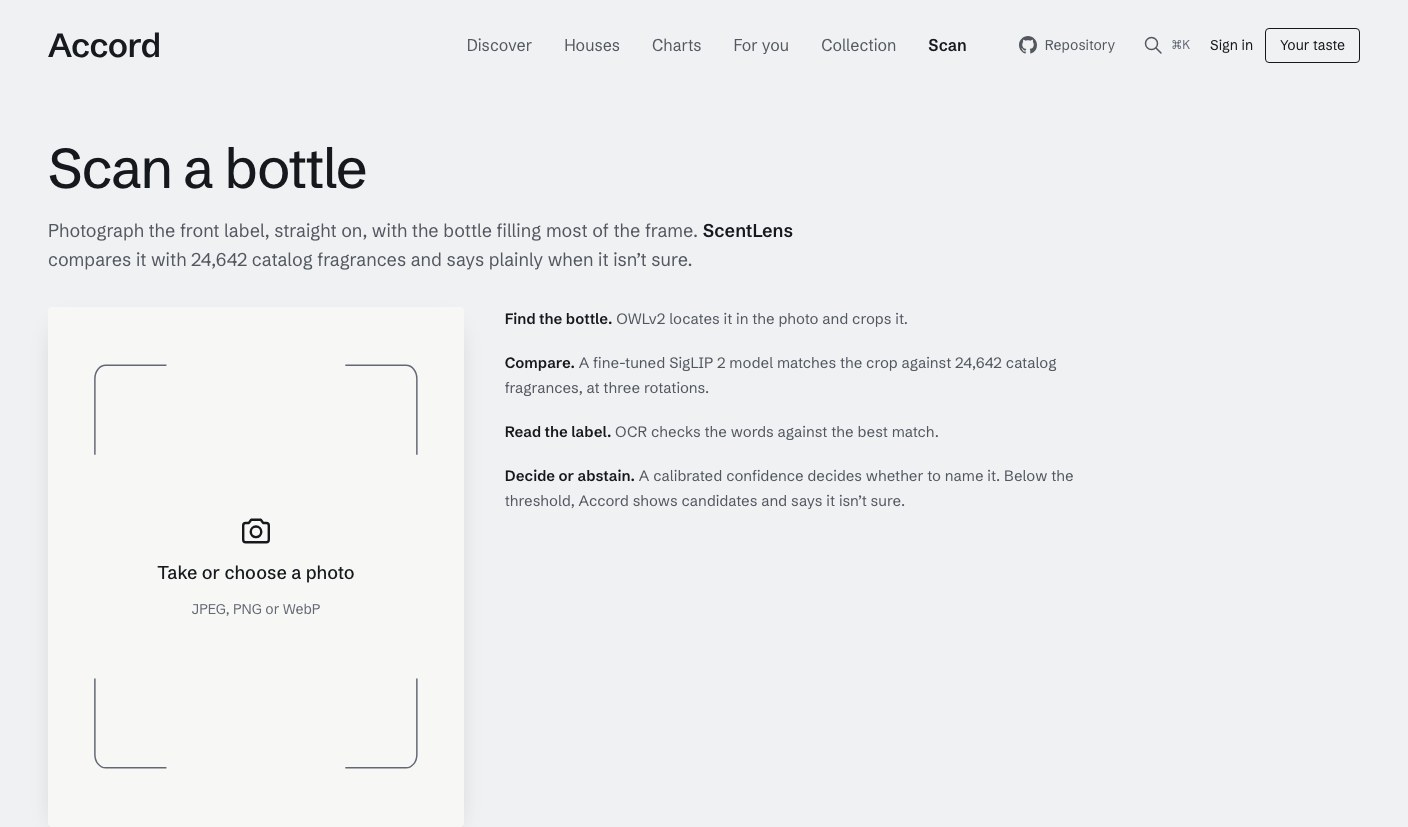
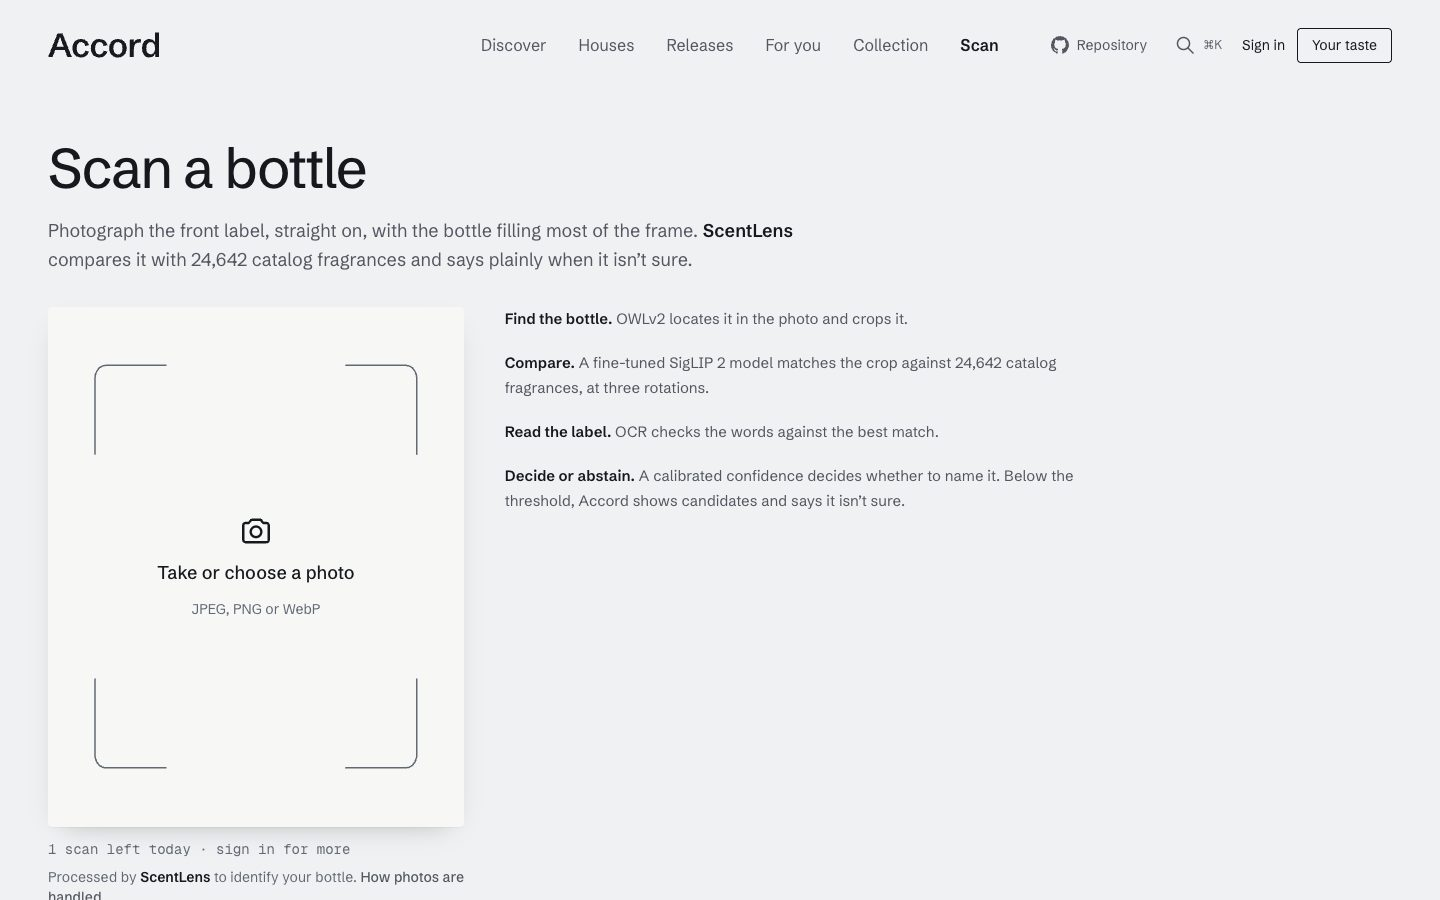
docs: README

diff --git a/README.md b/README.md
@@ -1,143 +1,146 @@
-<p align="center"><img src="src/app/apple-icon.png" width="88" height="88" alt="Accord's app icon, a paper smelling strip"></p>
+<p align="center"><img src="src/app/icon.svg" width="72" height="72" alt="Accord mark: a smelling strip"></p>
 
 # Accord
 
-**A fragrance discovery app that explains itself.** Search 24,651 fragrances, identify a bottle from a photo, and get recommendations that say exactly which notes and favourites they come from.
+**Find a fragrance, identify a bottle from a photo, and get picks that name the notes and favourites behind them.** Search 24,661 fragrances with a clear reason attached to every suggestion.
 
-**[Try it → accord.bhanusadhu.com](https://accord.bhanusadhu.com)** · works as a guest, no sign-up needed.
+**[Try it → accord.bhanusadhu.com](https://accord.bhanusadhu.com)** · free, no sign-up needed to browse, search and get recommendations
 
-![Demo: the homepage fans out paper smelling strips, quick find searches "santal 33" and opens Le Labo Santal 33, which is marked Owned and rated 5 stars; For you then lists fragrances ranked top 1% for this taste, each explained as close to Santal 33 and sharing its violet, leather and iris notes](docs/screenshots/demo.gif)
+![Accord in use: quick find opens with the keyboard, Santal 33 is found by typing, its page is marked as owned, and a ranked "For you" list follows, each pick showing a relative percentile match](docs/screenshots/demo.gif)
+
+![The Accord home page: six smelling strips fanned across a silver bench, each stained with the colour of its accord family, with a search box and a scan button](docs/screenshots/home.jpg)
 
 ## The problem
 
-People who love fragrance spend hours researching what to try next, but the big reference sites are cluttered forums, and their recommendations are either popularity lists or a black box. In a store or at a friend's place, the first question is usually "what is this?", and the answer means squinting at a label or asking around.
+People who collect fragrance already know a few notes and a few favourites, then lose hours across review sites and forums trying to answer three questions: what is this bottle, what would I like, and what smells like the one I love. Most tools answer with a popularity chart and no reasoning, and a bottle in your hand has no search box at all.
 
-The goal: **a visitor finds a fragrance they want to try, and understands why it was suggested.**
+Accord aims for one outcome: **a visitor finds a fragrance they want to try and understands why it was suggested.**
 
 ## How it works
 
-1. **Find.** Quick find (⌘K) searches names, houses and aliases and tolerates typos; Discover filters by notes to include or avoid.
-2. **Identify.** Photograph a bottle and [ScentLens](https://scentlens.bhanusadhu.com), a separate recognition model, names it from the catalog, or says it isn't sure.
-3. **Understand.** Each fragrance page shows its accord family, notes, an estimated accord profile, sourced facts (or "Not listed"), and similar fragrances.
-4. **Collect.** Mark bottles as Owned, Tried or Wishlist and rate them. It works on the device as a guest and merges into an account on sign-in.
-5. **Get picks.** For you ranks the whole catalog for your taste and explains every pick with the notes and favourites it shares.
+1. **Find.** Quick find (`⌘K`) and Discover search by name, alias, house, accord family and included or excluded notes, tolerant of typos.
+2. **Learn.** Each fragrance page shows sourced facts, an accord profile estimated from its listed notes, pictured notes, and top, heart and base stages only where a source assigns them.
+3. **Collect.** Mark a bottle Owned, Tried or Wishlist, rate it, and set liked and avoided notes. Guests keep this in the browser and it merges into an account on sign-in.
+4. **Get picks.** "For you" ranks the catalog and says why: the notes you like that a pick contains, and the favourite it resembles. The match is a percentile, never a probability.
+5. **Scan.** Photograph a bottle. [ScentLens](https://github.com/bhnsadhu/scent-lens) names it or says it is not sure, and an unsure result shows ghost strips instead of an answer.
 
-<p align="center"><img src="docs/screenshots/scan.jpg" width="80%" alt="The scan screen explains the four steps: find the bottle, compare it with 24,642 catalog fragrances, read the label, then name it or say it is not sure"></p>
+![The Discover page: a search for "santal" returns 172 fragrances as paper strips, with accord families and counts on the left and a preview of the selected fragrance on the right](docs/screenshots/discover.jpg)
 
 ## Product decisions
 
 | Decision | Trade-off |
 | --- | --- |
-| **Content-based picks, no collaborative filtering** | It can't learn "people who liked X also liked Y". There is no real interaction data to learn from, and faking it would fake the personalisation. |
-| **Match is a percentile, not a promise** | "Top 1%" sounds less exciting than "98% match". It is honest: the fragrance outscored 99% of the catalog for this taste, which says nothing certain about whether you'll love it. |
-| **The scanner may say "Not sure"** | Fewer photos get a name. But an unsure guess shown as an answer would cost more trust than it buys, so uncertain candidates appear as faint, unstained strips. |
-| **Useful before sign-up** | Guests keep their taste and shelves only on the device. In return anyone can browse, search and get picks on the first visit; signing in merges what they did. |
-| **Useful without a community** | Discovery uses catalog facts and attributed research. Unsupported ratings, reviews and votes are omitted; personal ratings still improve the visitor’s own recommendations. |
-| **Not a store** | No prices or retailer links, so no obvious way to earn money. It keeps the product about understanding fragrance, not selling it. |
+| **Useful before sign-up** | Guest state lives in `localStorage`, so it is lost if the browser is cleared, in return for zero friction. It merges into the account on first sign-in. |
+| **Explain every pick, never score it as a probability** | "Top 1%" means a pick outscored 99% of eligible fragrances. It sounds less impressive than "97% match" and is true. |
+| **Text and sourced facts only, "Not listed" when unknown** | Many pages look sparse: only 12 entries name a perfumer and 610 carry sourced note stages out of 24,661. In return nothing on a page is invented. |
+| **Scanner behind hard caps** | Three scans a day across the whole site, so most visitors cannot scan. That keeps spend at $0 on a free Modal credit, and a paused scanner says so and points to the ScentLens demo. |
+| **Built member ratings and reviews, then removed them** | Public ratings, reviews and charts needed real contributors Accord does not have, so they were retired. Private shelves and ratings stay, and every public page now reads catalog data only. |
+| **One visual system, strips on a bench** | Every list is a smelling strip stained by its accord family. It is distinctive and costs some density compared with a plain table. |
 
 ## Architecture
 
 ```mermaid
 flowchart TD
-  subgraph web["Browser"]
+  subgraph client["Browser"]
     direction LR
-    pages["Pages<br/>find, detail, For you"] ~~~ state["Taste and shelves<br/>device or account"]
+    guest["Guest state<br/>localStorage"] ~~~ ui["Strips, quick find"] ~~~ cam["Photo, 1024 px"]
   end
-  subgraph app["Next.js on Vercel"]
+  subgraph server["Next.js on Vercel"]
     direction LR
-    cat["Catalog reads<br/>cached, trigram search"] ~~~ reco["Recommender<br/>in-memory index"] ~~~ scan["Scan route<br/>cache, lease, quota"]
+    cat["Cached catalog<br/>and search"] ~~~ reco["Recommender<br/>in memory"] ~~~ guard["Scan guard<br/>cache, lease, quota"]
   end
-  subgraph ext["Data and model"]
+  subgraph data["Data and engine"]
     direction LR
-    neon[("Neon Postgres<br/>catalog, accounts, collections")] ~~~ sl["ScentLens on Modal<br/>bottle recognition"]
+    db["Neon Postgres"] ~~~ lens["ScentLens<br/>on Modal"]
   end
-  web --> app
-  app --> ext
+  client --> server
+  server --> data
 ```
 
-Catalog pages are prerendered and cached, and refreshed when the data changes. The recommender builds a note index of the whole catalog once per server instance and ranks all 24.6k fragrances in about **40 ms**. Every write takes the user from the verified session, never from the request. → [docs/ARCHITECTURE.md](docs/ARCHITECTURE.md)
+Pages prerender from `"use cache"` catalog reads, the recommender builds a sparse note index once per server instance, and only the scan route talks to ScentLens. Details in [docs/ARCHITECTURE.md](docs/ARCHITECTURE.md).
 
 ## Hard problems
 
-**Recommending with no usage data.** With no interaction data there's no ground truth for "would this person enjoy it", so the recommender was judged on a proxy: like four fragrances from one line (say, four Dior Sauvage flankers), hide a fifth, and see where it ranks among 24.6k. The first blend scored *worse* than notes alone at the top of the list. Adding similarity to the single closest liked fragrance lifted the hit rate in the top 24 from **9.0% to 12.0%**, against **0.3%** for random order. → [docs/EVALUATION.md](docs/EVALUATION.md), [`src/lib/reco`](src/lib/reco)
+**Recommending with no interaction data.** Accord has no user history to learn from, so collaborative filtering was off the table. The recommender in [src/lib/reco](src/lib/reco) is content-based: smoothed IDF note vectors, accord similarity, similarity to the closest liked fragrance, and a small personalized PageRank term, diversified with MMR. To check it, a script hides one fragrance from a line the simulated person likes (Chanel Chance, Dior Sauvage) and ranks it among about 24,600 others. My first blend scored worse than notes alone at the top of the list. Adding the nearest-liked term lifted **Hit@24 from 9.0% to 12.0%**, so it shipped.
 
-**A scanner that can't run up a bill.** Recognition runs on a GPU service with a hard monthly limit. Every request passes a kill switch, a size and format check, and a 24-hour cache keyed by the photo's hash. It then needs one of two slots (leased with `FOR UPDATE SKIP LOCKED`) and an atomic quota check across global, account and guest scopes. Only then does it call the model. Abstentions can never be displayed as answers. → [`src/lib/scan`](src/lib/scan)
+**A scanner that cannot overspend.** ScentLens runs on a free Modal credit with a $1 monthly limit, so [src/lib/scan](src/lib/scan) treats every call as money. A kill switch comes first, then size and magic-byte checks, a 24-hour result cache keyed by image hash, two concurrency slots taken with `FOR UPDATE SKIP LOCKED`, and quotas consumed in one transaction for the site, the account and the guest. An abstained result is forced to `product_id: null` so the UI cannot show it as an answer. A production cold scan took **29.9 s**, and unauthorized calls get a 401 before any compute starts.
 
-**Turning messy catalog text into structure.** The source lists accords as phrases like "Woody Amber Fresher Citrus". A parser maps each to an Edwards-wheel family, a character and facets, renames the legacy "Oriental" to "Amber", and drops stray perfumer names. The catalog has no accord strengths, so the profile bars are estimated from how strongly each listed note leans toward a family across the catalog, and are labelled as estimates. → [`src/lib/catalog`](src/lib/catalog)
+**Showing only what a source supports.** Catalog notes are a flat list, but people expect a top, heart and base pyramid. [scripts/prepare-note-stages.ts](scripts/prepare-note-stages.ts) matches an open dataset by house and full name and rejects conflicting concentrations or years, ambiguous editions and incomplete pyramids. Entries with no source keep the flat list and say "Not listed". Accord profile bars are labelled as estimates, with the method one click away. See [docs/CATALOG-RESEARCH.md](docs/CATALOG-RESEARCH.md).
 
-**Reference data without a community dependency.** Published wear guidance carries a named source and checked date. Seasonal guidance for two exact editions was retrieved through Scento’s public API. Unavailable ratings, reviews, votes and public profiles are removed; releases and note-based similarity work from the catalog. → [docs/CATALOG-RESEARCH.md](docs/CATALOG-RESEARCH.md)
+**24,649 bottle photos without bloating Git.** The optimized images ship as a pinned GitHub release asset. `npm run build` downloads it, checks size and SHA-256, rejects unexpected paths and restores the files, so the repository stays small and builds stay reproducible. See [docs/CATALOG-IMAGES.md](docs/CATALOG-IMAGES.md).
+
+![An accord profile for Chance Eau de Parfum: stained bars for Woody Amber, Green, Mossy Woods, Soft Floral, Floral Amber and Floral, each listing the notes behind it, with a link to how the profile is calculated](docs/screenshots/profile.jpg)
 
 ## Results
 
-| Recommender variant (line hold-out, 300 trials) | Hit in top 24 | Median rank of 24.6k |
-| --- | --- | --- |
-| Random order | 0.3% | 12,713 |
-| Notes only | 9.7% | 3,776 |
-| Nearest liked fragrance only | 8.7% | 3,461 |
-| **Shipped blend** | **12.0%** | **2,717** |
+- **116 unit and integration tests in 14 files** (Vitest). The integration tests run the real `pg` driver over in-memory PGlite and cover cross-user isolation, cascade deletion on account removal, scan quotas and leases, and security rules.
+- **74 Playwright tests in 14 files** across desktop and mobile, with the scanner mocked. They include accessibility checks with axe against WCAG 2.2 AA, account recovery, guest and account collections, and quick find.
+- **Recommender, offline line hold-out** (seed 42, 300 trials, 24,642 fragrances at the time): Hit@24 **12.0%** against 0.3% for random order, median rank **2,717** of about 24,600. This is a proxy. Flankers share notes, so it rewards note similarity and says nothing about enjoyment. Full table in [docs/EVALUATION.md](docs/EVALUATION.md).
+- **Ranking latency:** about **40 ms** for a full ranking of the catalog on a laptop, single thread.
+- **Live scan check:** one real photo returned the right fragrance at confidence 0.999 in 21.6 s with a cold container. One photo is a contract check, not an accuracy measurement. Scanner accuracy is measured and reported in the [ScentLens repository](https://github.com/bhnsadhu/scent-lens).
+- **Production hardening:** zero known findings in the production dependency audit, and an encrypted daily backup restored in a PostgreSQL 18 drill, all 18 tables verified. See [docs/OPERATIONS.md](docs/OPERATIONS.md).
 
-- **109** unit tests. They cover similarity and IDF weighting, cold start, rating-driven re-ranking, avoided-note exclusion, brand diversity and evidence-only explanations. Integration tests run the real Postgres driver against an in-memory database and check cross-user isolation and cascade deletion.
-- **14** Playwright specs: journeys, quick find, mobile, catalog independence, account recovery and accessibility checks (axe) across 19 pages.
-- **Scanner contract** verified live: one real bottle photo identified correctly at 0.999 confidence. That took **21.6 s** end to end with the model waking up, and 5.6 s inside the model. This checks the integration, not accuracy; ScentLens documents its own accuracy.
-
-Not measured: whether people enjoy the picks. The hold-out uses fragrance lines as a stand-in for taste, so read the numbers comparatively.
+**Not measured:** real users, satisfaction or whether the picks are enjoyed. No users, ratings or testimonials are shown anywhere because none exist.
 
 ## How it was built
 
-1. **Catalog and recommender.** The schema, typo-tolerant search and the explainable recommender came first, with the offline evaluation deciding the weights.
-2. **A guarded scanner.** ScentLens was wired in behind quotas, with the caps sized to a verified $1 monthly model budget.
-3. **The Blotter look.** Fragrances became paper smelling strips on an evaluation bench, each stained by its accord family, with a fanned-out hero.
-4. **Production hardening.** Verified-email sign-up, account recovery, immediate session revocation, data export, security headers, and encrypted daily backups with a tested restore.
-5. **A real reference.** Sourced fragrance profiles, a note library, bottle photos for 24,649 of 24,651 entries, and recent launches added through a request workflow.
-6. **Independent discovery.** House, perfumer and release pages work from the catalog. The initial community experiment was retired after a source-access review; personal collections and taste remain. Database migrations run during the production build, so the site never runs ahead of its schema.
+- **The engine first.** Schema, catalog seed from the ScentLens export, fuzzy search, the recommender with its evaluation script, then collections and taste profiles.
+- **Scanner behind a guard.** The ScentLens client, validation, quotas and leases landed before any interface for it, and were sized to the verified $1 Modal budget.
+- **A visual world.** After three explored directions, the strips-on-a-bench direction was chosen and applied everywhere, then a finish review fixed eight material problems and two regressions.
+- **Production.** Verified email accounts, expiring recovery links, backups, security headers and a restore drill, deployed on Vercel and Neon at $0.
+- **A reference, not just a recommender.** Licensed and attributed photos for 24,649 bottles, pictured notes, sourced note stages and attributed wear guidance.
+- **A turning point.** Ratings, reviews, wear votes and charts were built, shipped, then retired when the product no longer depended on anyone's contributions. The legacy tables remain so stored data and account deletion keep working.
 
 ## Tech stack
 
 | Layer | Technology |
 | --- | --- |
-| App | Next.js (App Router, Cache Components), React, TypeScript, Tailwind CSS |
-| Data | Neon Postgres, Drizzle ORM, `pg_trgm` search; PGlite locally and in tests |
-| Auth | Better Auth (email and password, verified email) |
-| Recognition | ScentLens on Modal, called through `@gradio/client` |
-| Testing | Vitest, Playwright, axe |
-| Hosting | Vercel Hobby, Neon Free, Modal with a $1 monthly cap ([COSTS.md](COSTS.md)) |
+| Frontend | Next.js 16 (App Router, `cacheComponents`), React 19, TypeScript strict, Tailwind 4, Lenis |
+| Backend | Next.js route handlers and server actions, Better Auth, zod |
+| Data | PostgreSQL with `pg_trgm`, Drizzle ORM, `pg` driver. Neon in production, PGlite locally |
+| Recognition | ScentLens (OWLv2, SigLIP 2, OCR) on Modal, called with `@gradio/client` |
+| Testing | Vitest, Playwright, axe-core |
+| Hosting | Vercel Hobby and Neon Free, $0 ([COSTS.md](COSTS.md)) |
 
 ## Run it locally
 
 ```bash
 npm install
-npm run db:server                      # local Postgres (PGlite) on :5433, keep it running
-npm run db:migrate && npm run db:seed  # schema, then the catalog
-npm run dev                            # http://localhost:3000
+npm run db:server                     # PGlite on 127.0.0.1:5433, keep it running
+npm run db:migrate && npm run db:seed # needs the ScentLens products.csv, not committed
+npm run dev                           # http://localhost:3000, scanner off unless SCANNER_MODE is set
 npm run typecheck && npm run lint && npm test
-npm run test:e2e                       # Playwright, with the scanner mocked
-npx tsx scripts/evaluate-reco.ts       # the recommender hold-out evaluation
+npm run test:e2e                      # builds and serves on :3200 with the scanner mocked
+npx tsx scripts/evaluate-reco.ts      # offline recommender evaluation
 ```
 
-Environment variable names are in `.env.example`. The scanner stays off unless `SCANNER_MODE=live` and `SCENTLENS_URL` are set. Pushes to `main` deploy production on Vercel.
+Environment variable names are listed in `.env.example`. Pushing to `main` deploys to Vercel, and production builds apply pending migrations first.
 
 ## Project structure
 
-```
-src/app/               # Routes, API endpoints and server actions
-src/components/        # Strip module, quick find, scanner, profile builder
-src/lib/catalog/       # Accord parsing, queries, cached readers, accord profile
-src/lib/reco/          # Index, similarity, scoring, graph walk, explanations
-src/lib/scan/          # ScentLens client, image checks, cache, slots, quotas
-src/lib/community/     # Retained legacy data access for maintenance only
-src/db/                # Drizzle schema
-scripts/               # Database server, migrate, seed, evaluation, moderation
-tests/                 # Integration (PGlite) and Playwright specs
-docs/                  # Architecture, decisions, evaluation, operations, design
+```text
+src/app/          routes: discover, fragrance, for-you, collection, scan, houses, releases
+src/components/   the strip module, quick find, scanner, profile builder
+src/lib/reco/     recommender: index, similarity, scoring, graph, explanations
+src/lib/scan/     ScentLens client, image checks, quotas, leases, cache
+src/lib/catalog/  parsing, seeding, cached queries, accord profile
+src/db/           Drizzle schema
+drizzle/          SQL migrations
+scripts/          seed, migrate, evaluation, catalog research import
+tests/            integration (PGlite) and e2e (Playwright)
+docs/             architecture, decisions, evaluation, operations
 ```
 
 ## What's next
 
-Known limits:
-- The source catalog ends in early 2024; newer launches are added one by one after research.
-- Many fragrances still list no perfumer or note stages ("Not listed").
-- Scans are capped at a few a day to stay inside the free model budget, and a cold model takes about 30 s.
+**Known limits**
 
-Next to measure, once members use it: how often a pick gets saved or rated, and whether picks rate higher than fragrances people find on their own.
+- The source catalog ends in early 2024. Later launches are added by hand, and only when sourced.
+- Sparse pages are common: 12 entries have a named perfumer, 610 have sourced note stages and 9 have wear guidance.
+- Bottle photos come from a dataset labelled MIT whose individual photographers' permissions are undocumented. The limitation is disclosed on the site.
+- The scanner is capped by a free credit shared with the ScentLens demo, and a cold scan takes about 30 s.
+- The logo is a placeholder.
 
-[Architecture](docs/ARCHITECTURE.md) · [Decisions](docs/DECISIONS.md) · [Evaluation](docs/EVALUATION.md) · [Operations](docs/OPERATIONS.md) · [Costs](COSTS.md) · [Third-party notices](THIRD_PARTY_NOTICES.md)
+**Next:** more sourced note stages and perfumers in batches, a real-photo accuracy check of the scanner inside Accord, and a measure of whether explanations change what people try.
+
+[Architecture](docs/ARCHITECTURE.md) · [Decisions](docs/DECISIONS.md) · [Evaluation](docs/EVALUATION.md) · [Operations](docs/OPERATIONS.md) · [Catalog research](docs/CATALOG-RESEARCH.md) · [Costs](COSTS.md)
